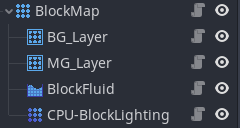
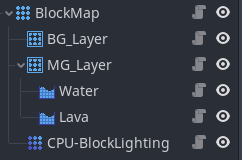
Updated Documentation

diff --git a/README.md b/README.md
@@ -14,7 +14,7 @@ Requires Godot Mono. [Documentation](https://docs.godotengine.org/en/stable/gett
 3. Open your project in Godot and click on `Build`. You may need to create a new c# script to have this option.
 4. Enable this plugin from `Project Settings -> Plugins` menu.
 
-You should now see the custom types `BlockMap`, `BlockLayer`, and `CPU-BlockLighting` in the Create New Node menu.
+You should now see the custom types `BlockMap`, `BlockFluid`, `BlockLayer`, and `CPU-BlockLighting` in the Create New Node menu.
 
 ![](other/nodes.png)
 
@@ -27,6 +27,7 @@ You should now see the custom types `BlockMap`, `BlockLayer`, and `CPU-BlockLigh
     - Define the properties of all your blocks in `Block Properties`.
 - Add a `BlockLayer` node as a child of `BlockMap` for every layer that you want.
     - Update `Tile Set`
+- Add `BlockFluid` as a child of one of the `BlockLayer` nodes.
 - Add `CPU-BlockLighting` as a child of `BlockMap`.
     - Set `Lighting Layer` to the index of the `BlockLayer` that you want to interact with the lighting.
 
@@ -37,4 +38,46 @@ You should now see the custom types `BlockMap`, `BlockLayer`, and `CPU-BlockLigh
 
 ![](other/variables_blocklayer.png)
 
+![](other/variables_blockfluid.png)
+
 ![](other/variables_blocklighting.png)
+
+## Parameters
+
+### BlockMap
+
+- `Preview Camera`: Camera used for previewing terrain.
+- `Generator Script`: Script used for world generation. See [GeneratorTemplate.gd](templates/GeneratorTemplate.gd) for formatting.
+- `Block Size`: Size of each block in pixels.
+- `Chunk Size`: Size of each chunk in blocks.
+- `Padding`: Additional chunks outside of camera.
+- `Block Propetries`: Array of dictionaries containing properties of each block. Index 0 is reserved for air.
+    - `Solid`: Whether the block will occlude ambient light.
+    - `Light Absorb`: How much the block will absorb light for each color channel.
+    - `Emit`: The light emission color of this block.
+    - `Emit Strength`: The light emission strength of this block.
+
+### Block Fluid
+
+- `Update Fps`: The number of simulation steps that are computed every second.
+- `Block Id`: The block that the simulation is run for.
+- `Color`: The primary color of the fluid.
+- `Color2`: The color of the fluid when it has Max Flow amount of fluid.
+- `Vertical Only`: Enable if you want sand physics like in Minecraft.
+- `Min Value`: The minimum amount of fluid a block can have.
+- `Max Value`: The maximum amount of fluid a block can have before compression.
+- `Max Compression`: The greatest difference in fluid amount two vertically adjacent blocks can have.
+- `Min Flow`: The minimum amount of fluid that can flow from one block to the next.
+- `Max Flow`: The maximum amount of fluid that can flow from one block to the next.
+- `Flow Speed`: The speed at which fluid flows from one block to the next.
+
+### CPU-BlockLighting
+
+- `Ambient`: The color of ambient lighting.
+- `Ambient Strength`: The strength of ambient lighting.
+- `Ambient End`: The lowest elevation where ambient lighting can be at full strength.
+- `Ambient Falloff Range`: The range after Ambient End where ambient lighting strength transitions to 0.
+- `Light Threshold`: The minimum light value that the light is propagated for. Lower values produce higher quality lighting at the cost of performance.
+- `Smooth`: Whether filter is enabled for the lighting texture that is generated.
+- `Colored`: Whether colored lighting is computed. Disable for better performance.
+- `Lighting Layers`: Array of integers representing the Ids of layers that will interact with lighting.
